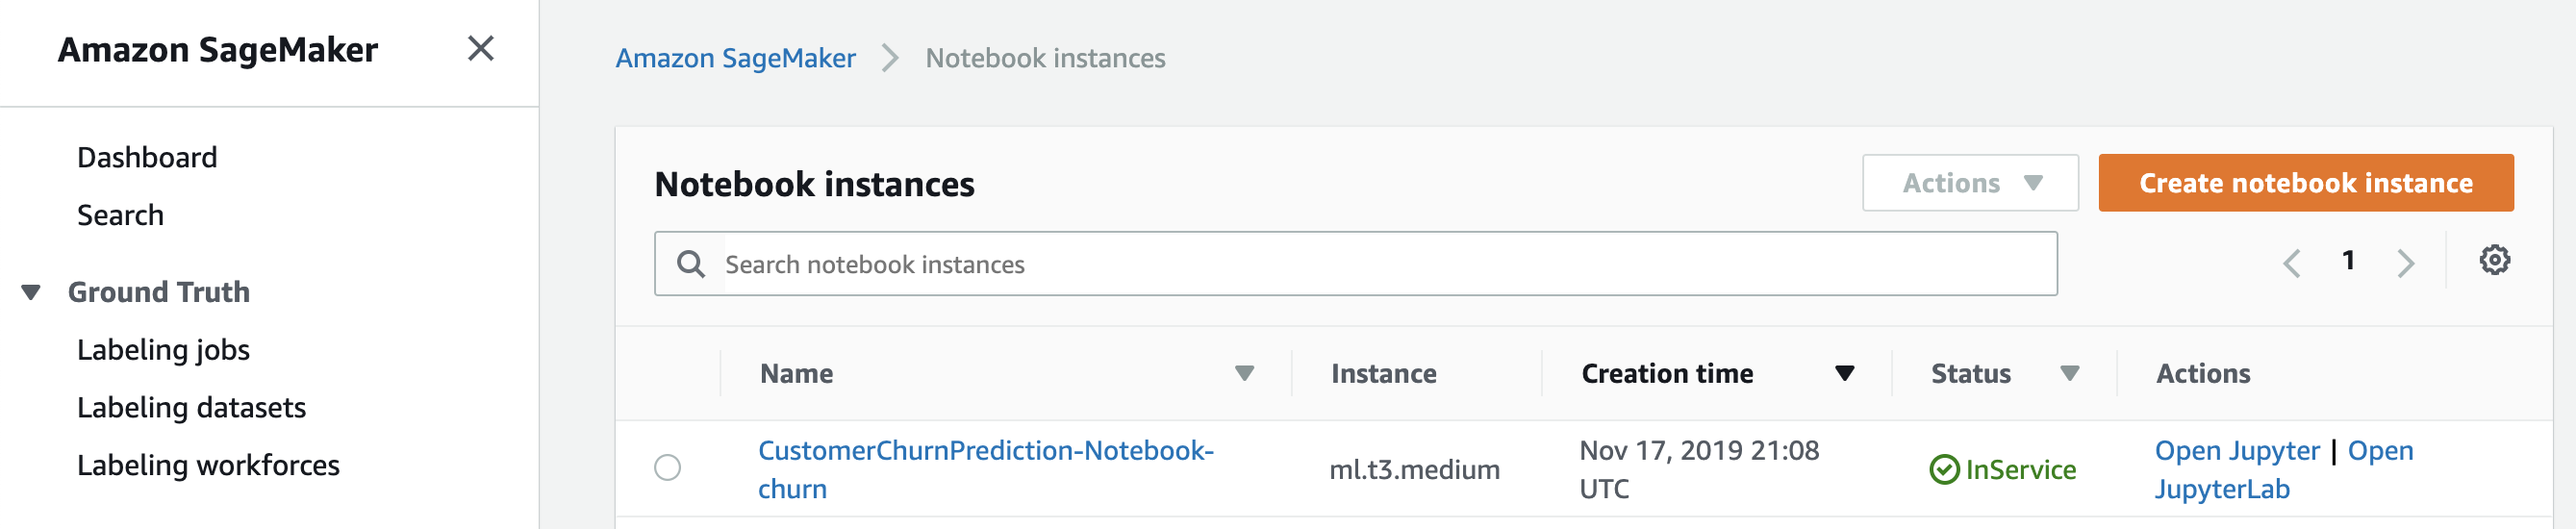
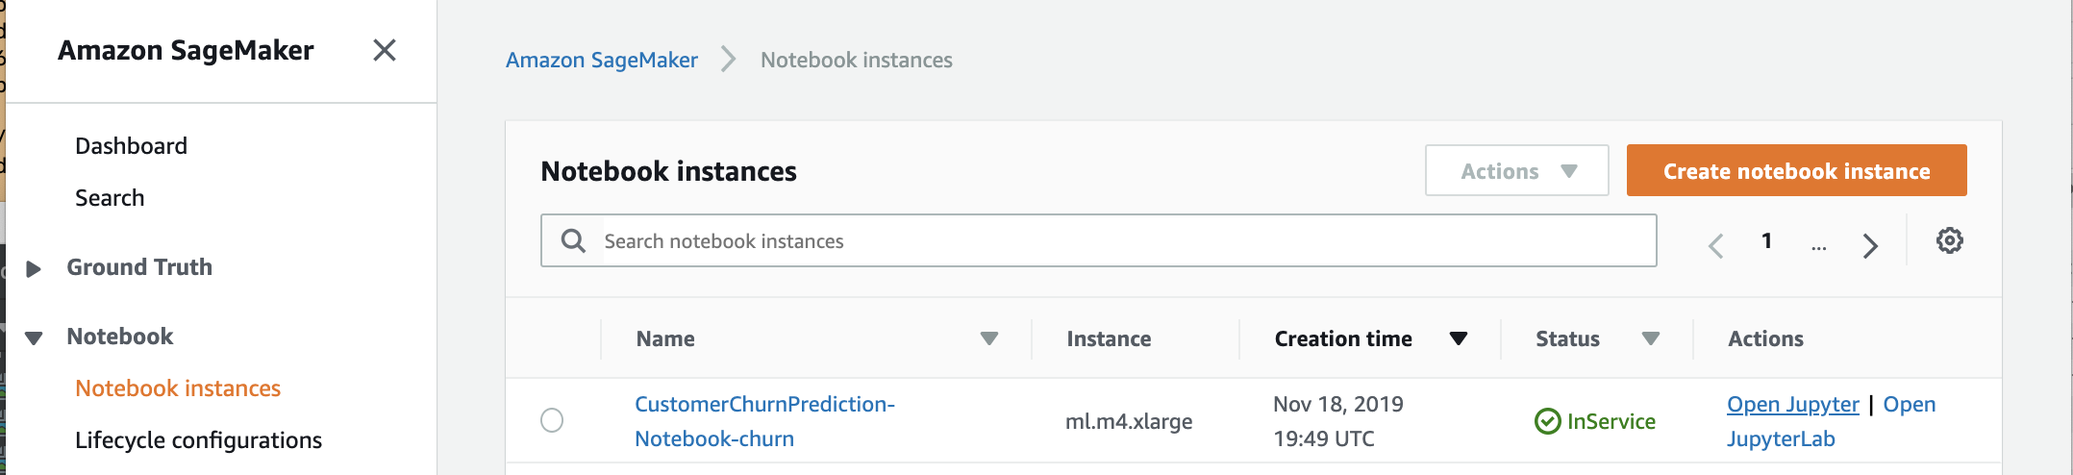
Updated instructions

diff --git a/README.md b/README.md
@@ -7,6 +7,9 @@ the business a chance to offer customers appropriate incentives to stay. This is
 In this lab, we will use XGBoost, a well understood machine learning supervised learning algorithm
 for customer churn prediction.  In particular, we will use Amazon SageMaker's built-in XGBoost algorithm.  We will also use Amazon SageMaker managed service to build, train and deploy the XGBoost customer churn prediction model.
 
+This lab is based on the Amazon SageMaker example notebook xgboost_customer_churn.ipynb at https://github.com/awslabs/amazon-sagemaker-examples/blob/master/introduction_to_applying_machine_learning/xgboost_customer_churn/xgboost_customer_churn.ipynb.
+Very minor modifications are made to accomodate the dataset used.
+
 Let’s get started. 
 
 ### Prerequisites
@@ -20,13 +23,14 @@ To run this workshop, you will need
 High level steps to run the workshop :
 
 1. Setup : Execute a cloudformation template that creates a Amazon SageMaker notebook.
-2. Build, train and deploy XGBoost model : Open the Jupyter notebook created in step 1 and execute the example notebook provided in SageMaker Examples --> Introduction to Applying Machine Learning --> xgboost_customer_churn.ipynb.
- 
+2. Build, train and deploy XGBoost model : Open the Jupyter notebook created in step 1 and execute notebook cells to examine data, train/deploy the XGBoost model and make predictions.
+
 #### Step 1 - Setup
 
 In this step, you will execute a Cloud Formation template to setup workshop environment by creating:
 
 * SageMaker Notebook Instance: This notebook instance will be used as our lab environment.
+* SageMaker Notebook lifecycle configuration: Lifecycle configuration created to automatically clone this workshop repository including the notebook instance included for this workshop.
 * IAM Role : Role attached to the notebook instance that allows access to an S3 bucket to save training data and trained models.
 
 
